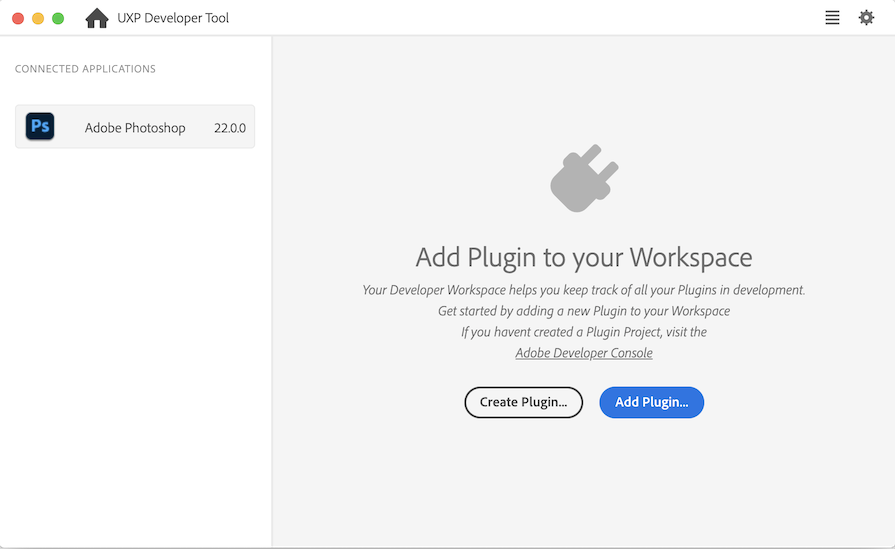
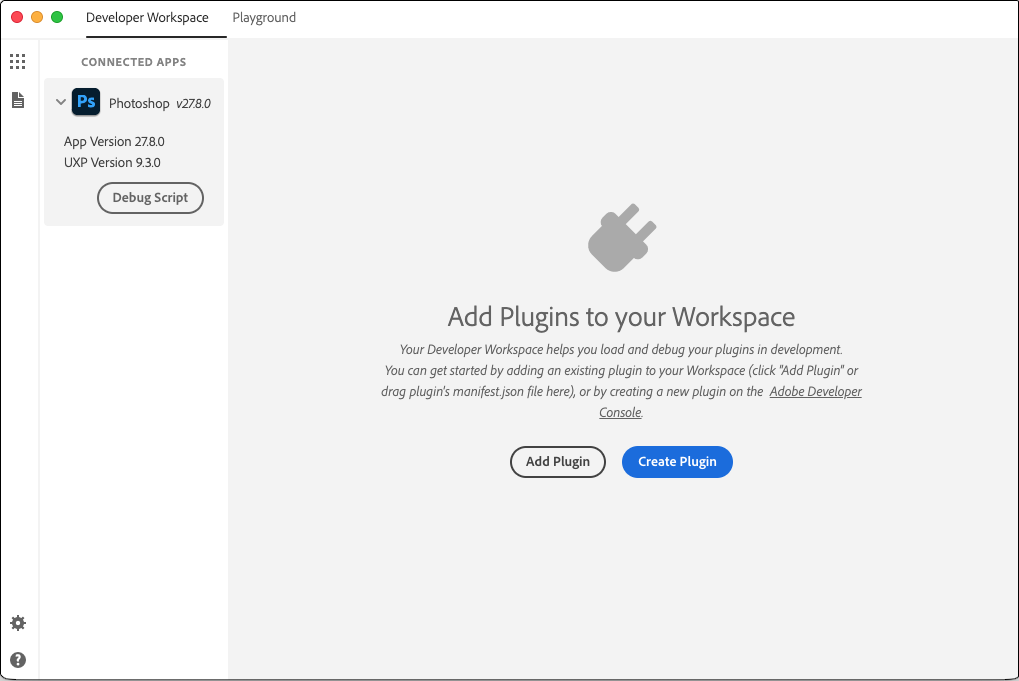
Fix screenshots, version, and UDT navigation

diff --git a/src/pages/guides/devtool/installation.md b/src/pages/guides/devtool/installation.md
@@ -22,8 +22,8 @@ You can install the UXP Developer Tools by clicking [here](https://creativecloud
 
 * Launch Adobe Creative Cloud Application. If not installed, [download and install Creative Cloud](https://creativecloud.adobe.com/apps/download/creative-cloud).
 * Sign in with your Adobe account if not already signed in.
-* Click on `All apps` section, and you should see "UXP Developer Tools" listed.
-  ![Creative cloud](./ccd-allapps-udt.png)
+* Click on `Apps` section, and you should see "UXP Developer Tools" listed.
+  ![Creative cloud](./ccd-apps-udt.png) 
 * Click on the `Install` button for the `UXP Developer Tools` card to start installation.
 
 ## Launching for the first time

diff --git a/src/pages/guides/devtool/udt-walkthrough/index.md b/src/pages/guides/devtool/udt-walkthrough/index.md
@@ -27,9 +27,9 @@ First make sure you have the UXP Developer Tool (UDT). Learn about installing UD
 
 You'll also see this window if you have no plugins loaded in the Tool.
 
-The left pane shows applications that are "connected" to the tool. At this time, the only applications that can connect are Photoshop and XD. In this pane, you should see "Adobe Photoshop" in the `Connected Applications` list. If you don't, something is wrong; UDT can't connect to Photoshop. Make sure you're running at least version 22.0.0 of Photoshop; earlier versions did not support UXP.
+The left pane shows applications that are "connected" to the tool. In this pane, you should see "Adobe Photoshop" in the `Connected Applications` list. If you don't, something is wrong; UDT can't connect to Photoshop. Make sure you're running at least version 22.0.0 of Photoshop; earlier versions did not support UXP.
 
-The center pane shows the plugs that are loaded in UDT, but you don't have any yet. At the top right is a gear icon; if selected, it shows this sheet:
+The center pane shows the plugs that are loaded in UDT, but you don't have any yet. At the bottom left is a gear icon; if selected, it shows this sheet:
 
 ![UDT gear icon sheet](images/udt-gear-icon.png)
 